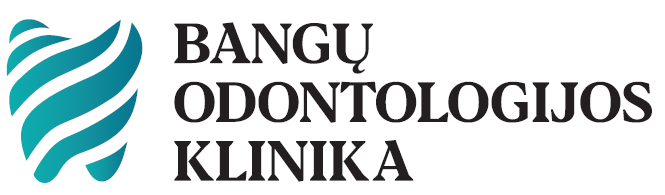
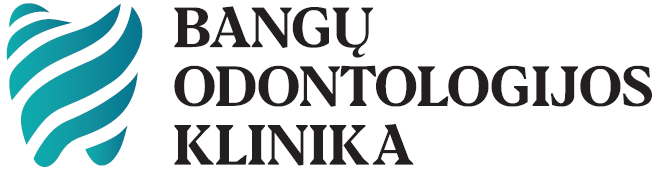
Waves background

diff --git a/src/components/Footer.tsx b/src/components/Footer.tsx
@@ -27,18 +27,15 @@ export default function Footer() {
           <Link
             to="/"
             aria-label="Bangų klinika — pradžia"
-            className="inline-flex items-center"
+            className="inline-flex items-center gap-3"
           >
-            {/* VARIANTAS A: paveikslėlis (invertuoja į baltą) */}
+            {/* Naudojam sugeneruotą logotipą su baltu tekstu */}
             <img
-              src="/logo.png"
+              src="/logo1.png"
               alt="Bangų klinika"
-              className="h-8 sm:h-10 w-auto object-contain select-none invert"
+              className="h-12 sm:h-20 w-auto object-contain select-none"
               draggable={false}
             />
-
-            {/* VARIANTAS B: Tekstinis baltas logotipas */}
-            {/* <TextLogo className="ml-2" /> */}
           </Link>
 
           <p className="text-xs text-white/80 max-w-xs">
@@ -56,7 +53,7 @@ export default function Footer() {
 
         {/* Navigation */}
         <div>
-          <h4 className="text-sm font-semibold mb-3">Navigacija</h4>
+          <h4 className="text-sm font-semibold mb-3 text-white">Navigacija</h4>
           <ul className="space-y-2">
             <li><Link to="/paslaugos" className="footer-link">Paslaugos</Link></li>
             <li><Link to="/kainos" className="footer-link">Kainos</Link></li>
@@ -67,7 +64,7 @@ export default function Footer() {
 
         {/* Contacts */}
         <div>
-          <h4 className="text-sm font-semibold mb-3">Kontaktai</h4>
+          <h4 className="text-sm font-semibold mb-3 text-white">Kontaktai</h4>
           <ul className="space-y-2">
             <li className="footer-pin">
               <MapPin size={14} />
@@ -90,7 +87,7 @@ export default function Footer() {
 
         {/* Hours */}
         <div>
-          <h4 className="text-sm font-semibold mb-3">Darbo laikas</h4>
+          <h4 className="text-sm font-semibold mb-3 text-white">Darbo laikas</h4>
           <ul className="space-y-1">
             {CLINIC.hours.map(h => (
               <li key={h.day} className="inline-flex items-center gap-2 text-white/90">
